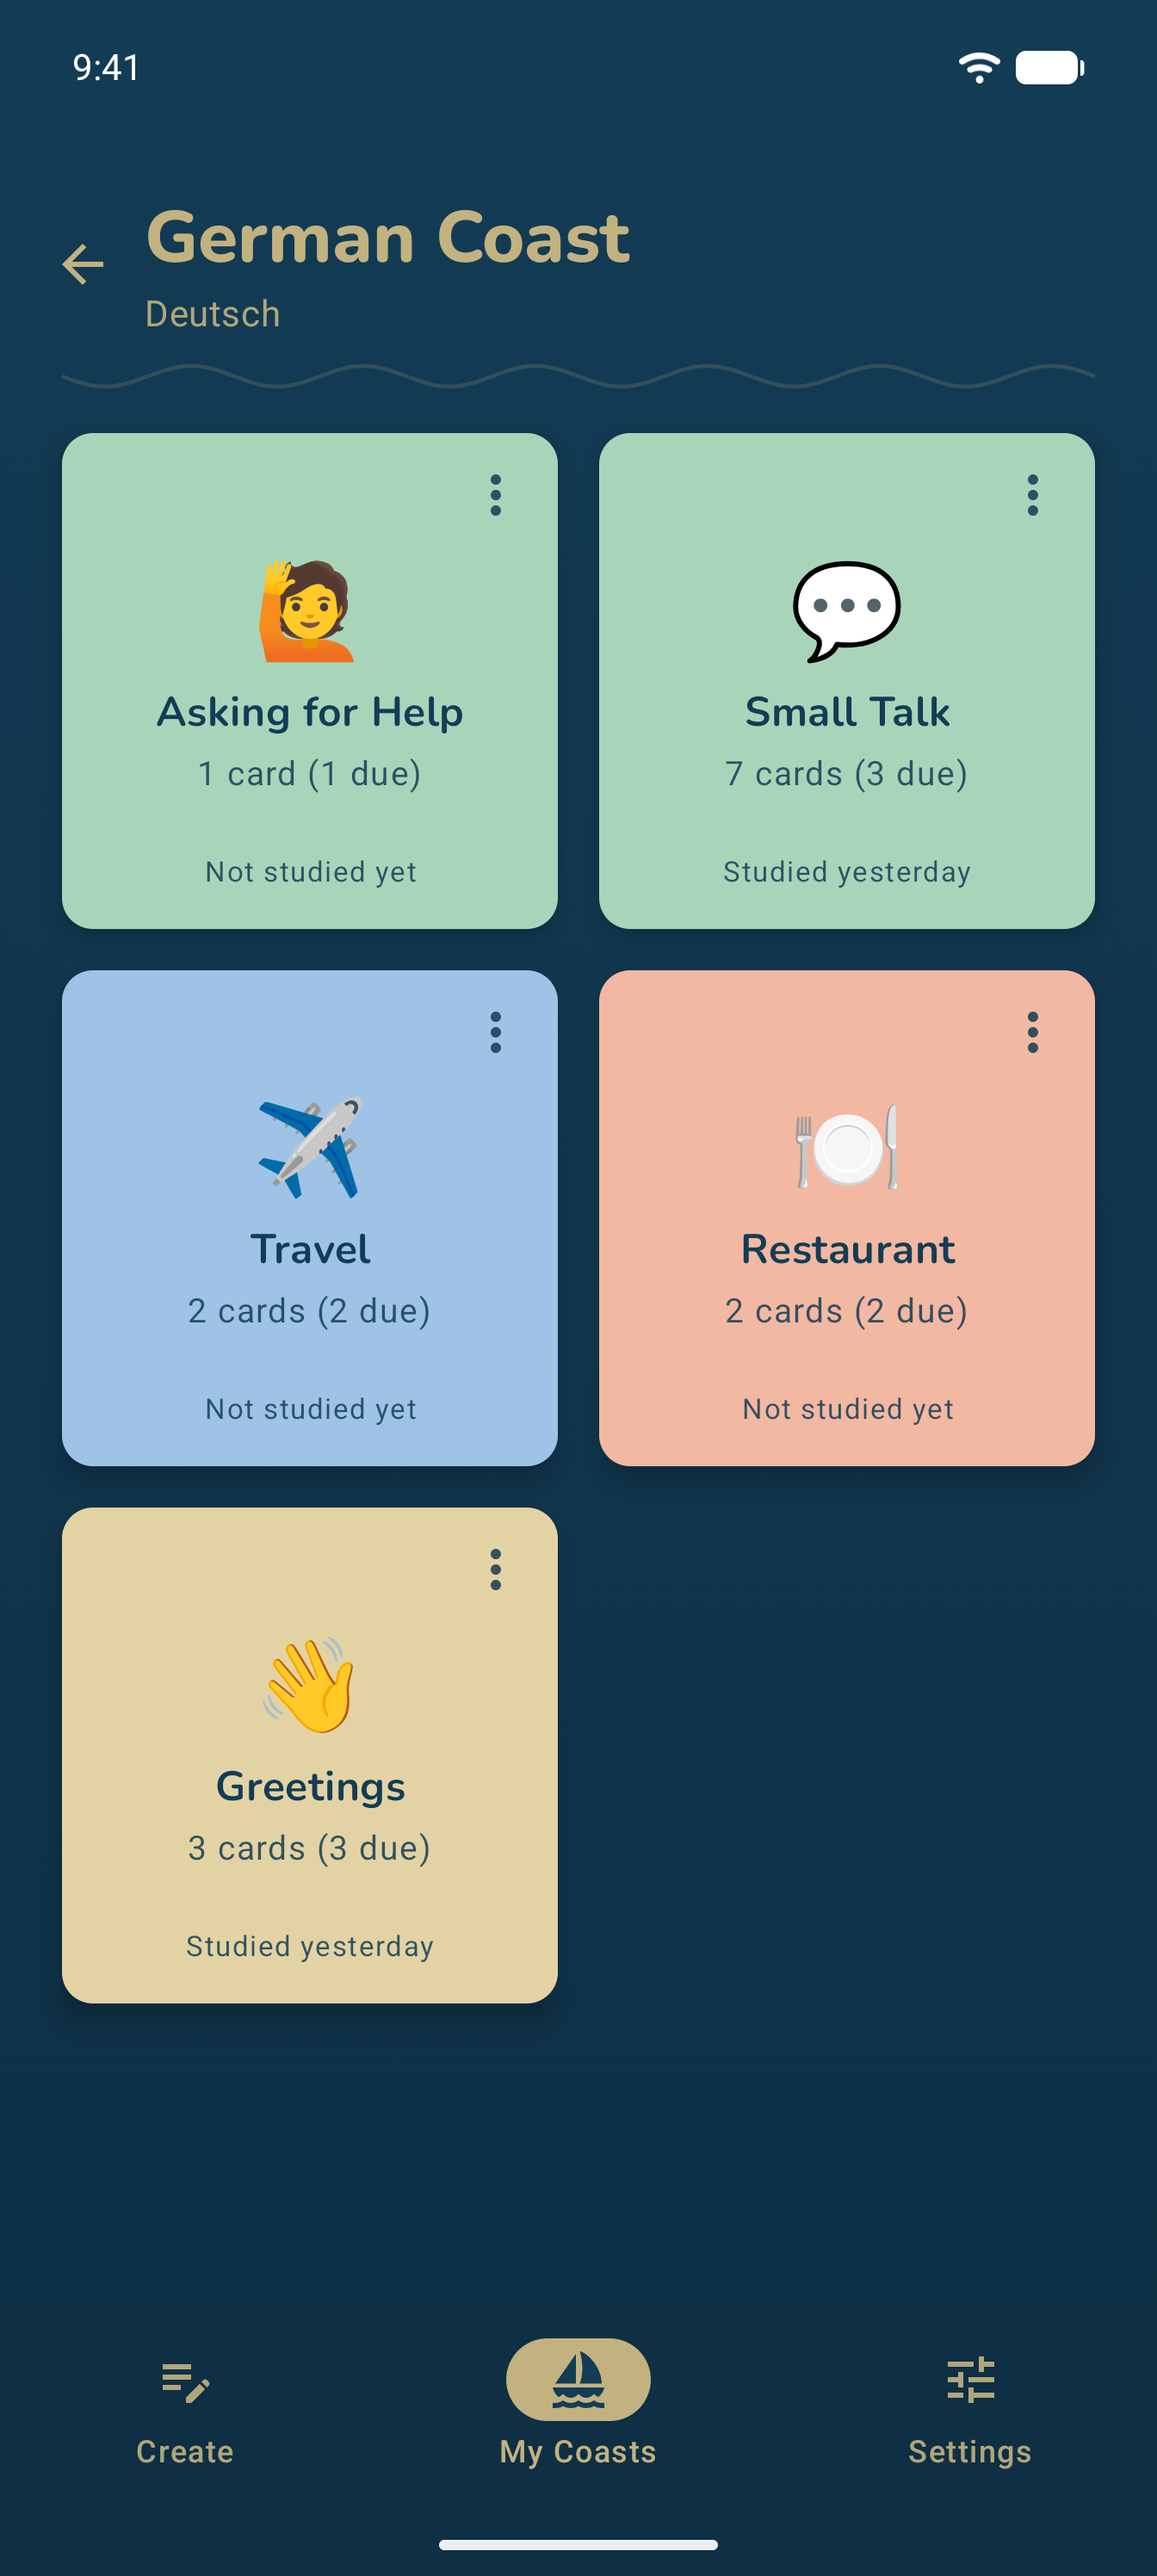
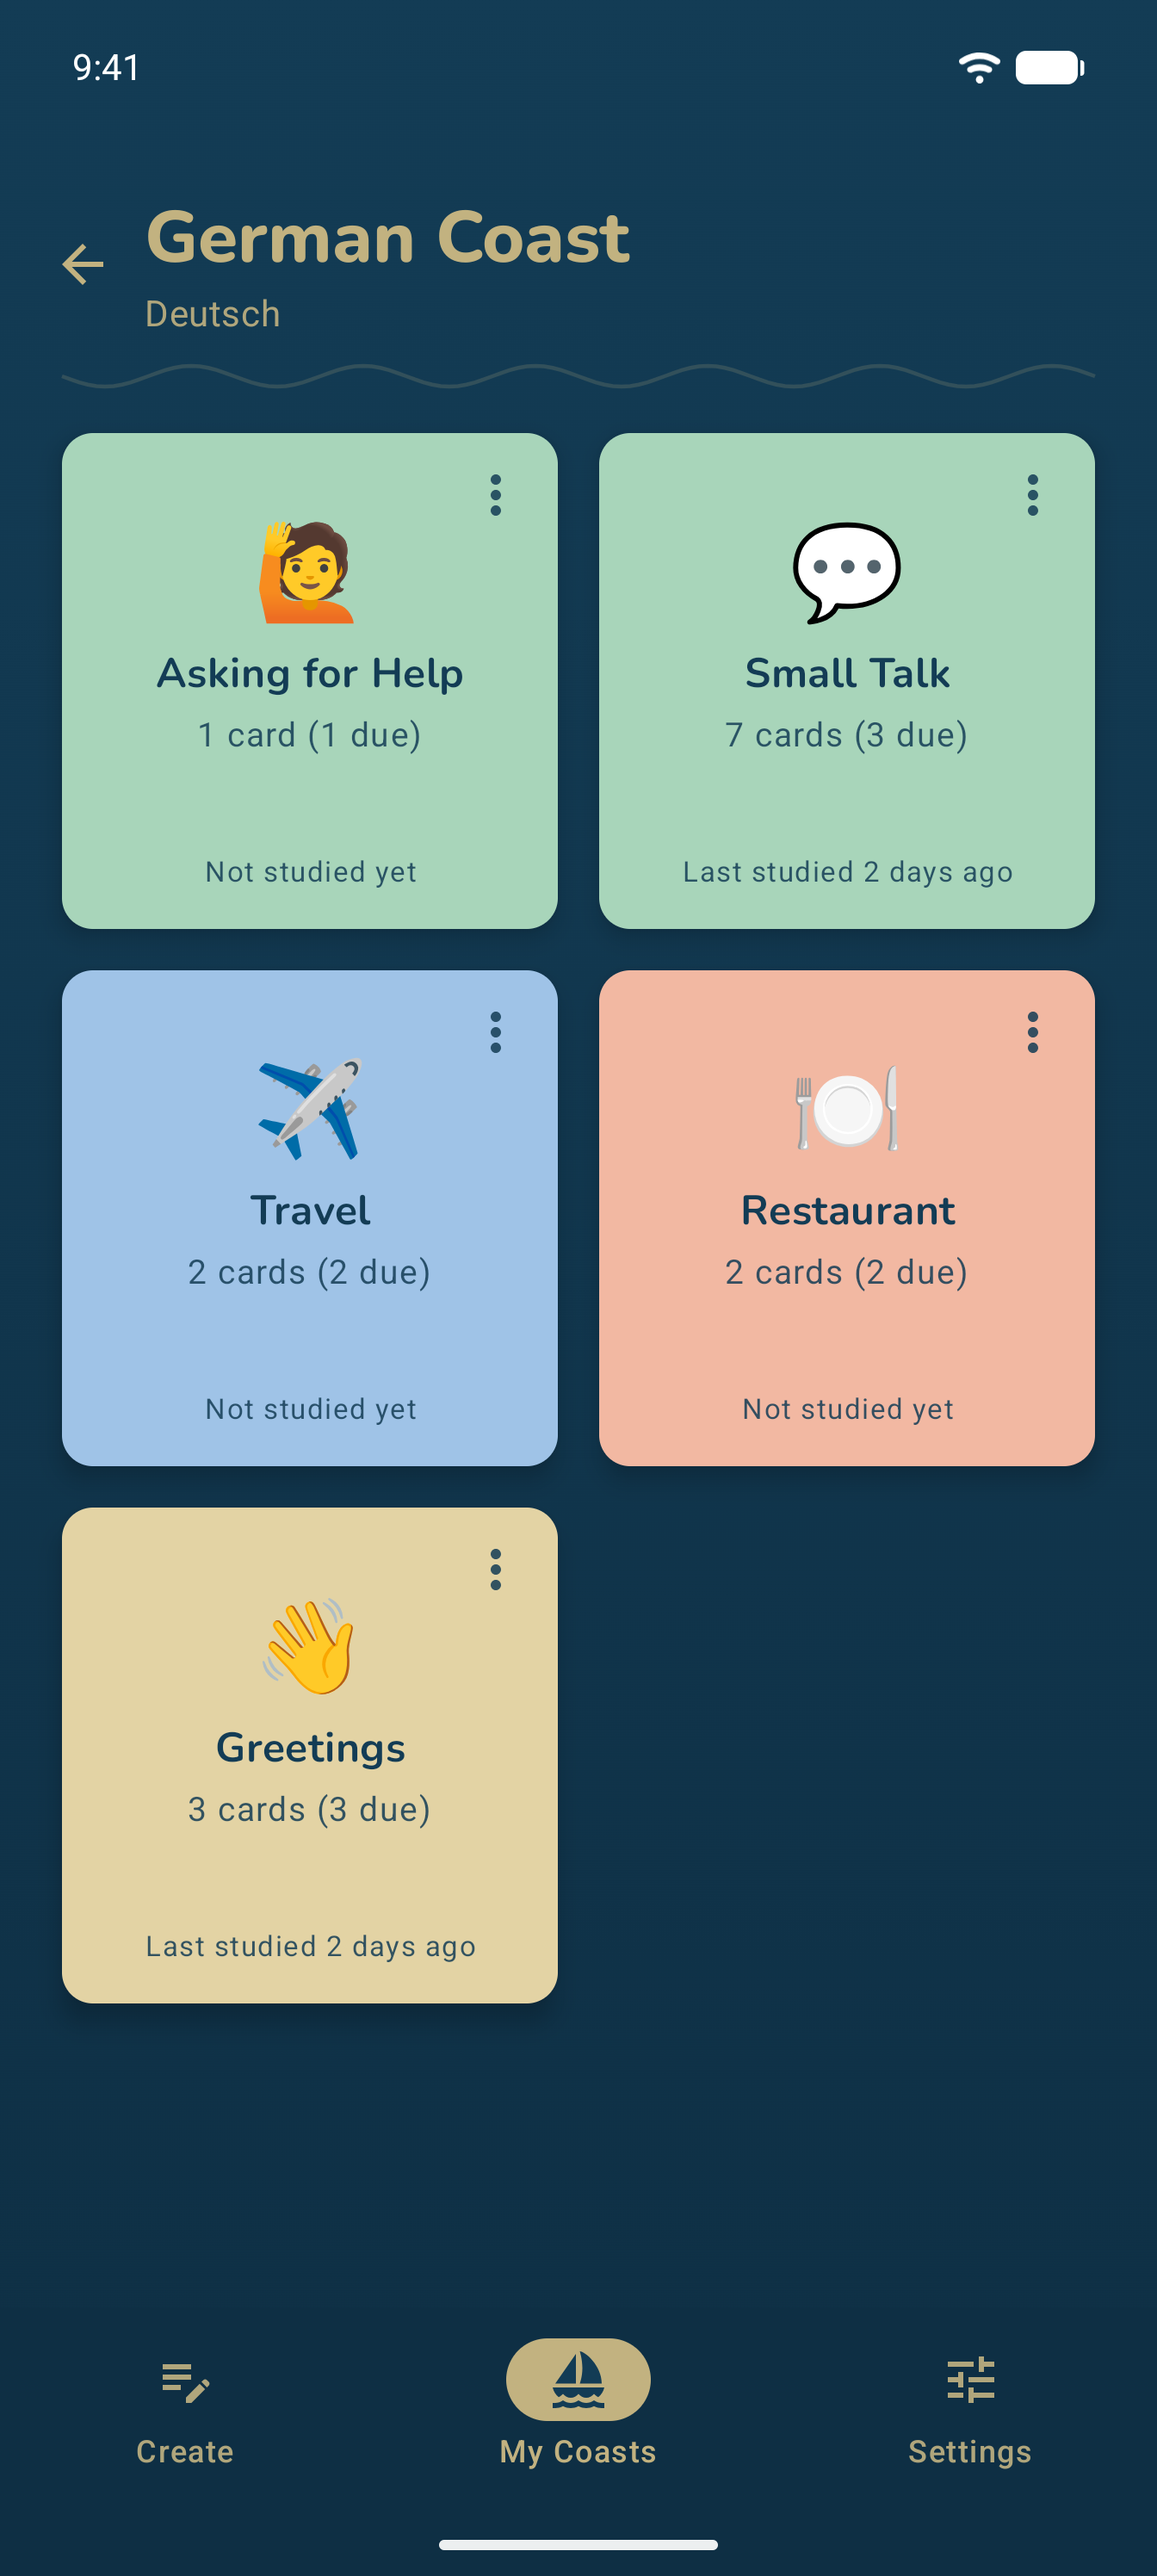
Show the Again button's "Soon" label in the README
Update the Flip Cards description and retake the study screenshot,
which still showed "1d" on Again, and the coast screenshot, whose
island cards are laid out slightly differently since #17.

diff --git a/README.md b/README.md
@@ -26,7 +26,7 @@ Language Coast is a flashcard app that changes how you build vocabulary. It comb
   <img src="docs/screenshots/my-coast.png" alt="My Coasts with the study streak and a German and an Icelandic coast, each showing its due cards" width="200" />
   <img src="docs/screenshots/coast.png" alt="German Coast with its Language Islands and how many cards on each are due" width="200" />
   <img src="docs/screenshots/island-cards.png" alt="The cards of the Small Talk island with their translations, alternatives and when each is due" width="200" />
-  <img src="docs/screenshots/study.png" alt="Flipped flashcard with the study direction, a read-aloud button and Again, Hard, Good and Easy buttons showing when the card comes back" width="200" />
+  <img src="docs/screenshots/study.png" alt="Flipped flashcard with the study direction, a read-aloud button and Again, Hard, Good and Easy buttons showing when the card comes back (Again: soon, in this session)" width="200" />
   <img src="docs/screenshots/alternatives.png" alt="Sheet with other ways to say a sentence, a note on formal and informal forms, and read-aloud and Make main buttons" width="200" />
   <img src="docs/screenshots/search.png" alt="Search results across all coasts, each showing its coast, island and when it is due" width="200" />
   <img src="docs/screenshots/settings.png" alt="Settings with the native language and the choice of on-device, Gemini or OpenRouter translation" width="200" />
@@ -66,7 +66,7 @@ Language Coast is a flashcard app that changes how you build vocabulary. It comb
 
 ### 🧠 Study modes
 - **Spaced repetition**: cards are scheduled with [FSRS](https://github.com/open-spaced-repetition/awesome-fsrs/wiki/The-Algorithm), the algorithm Anki uses, so each island only asks for the cards that are due. Islands and coasts show how many cards are due, and the daily reminder says how many are waiting. When nothing is due you can still practice all cards.
-- **Flip Cards**: classic flashcards with an animated flip. Grade each card *Again*, *Hard*, *Good* or *Easy* (each button shows when the card comes back), or swipe left for *Again* and right for *Good*. *Again* also moves the card to the end of the session.
+- **Flip Cards**: classic flashcards with an animated flip. Grade each card *Again*, *Hard*, *Good* or *Easy* (each button shows when the card comes back), or swipe left for *Again* and right for *Good*. *Again* shows *Soon*: it moves the card to the end of the session, so you see it again before you finish.
 - **Active Type**: test your recall by typing the translation. Capitalization, punctuation and extra spaces don't count against you, accents do. A correct answer is graded like a flipped card; a wrong one counts as *Again* and the card comes back later in the session.
 - **Read aloud**: a speaker button reads the translation in the coast's language, using the voices installed on your phone (free and offline). It only appears when the phone has a voice for that language.
 - **Study the other way round**: swap the direction under the study tabs to see the translation first and answer in your native language, training recognition instead of recall. Works with Flip Cards and Active Type, and is remembered for later sessions.
